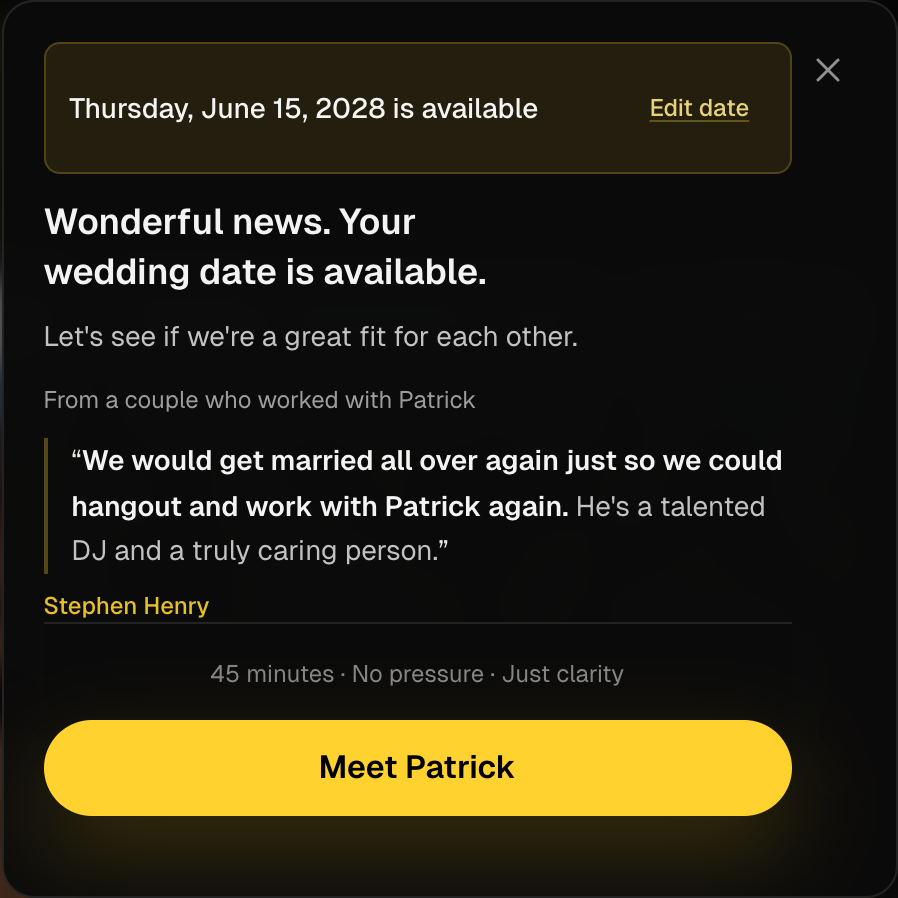
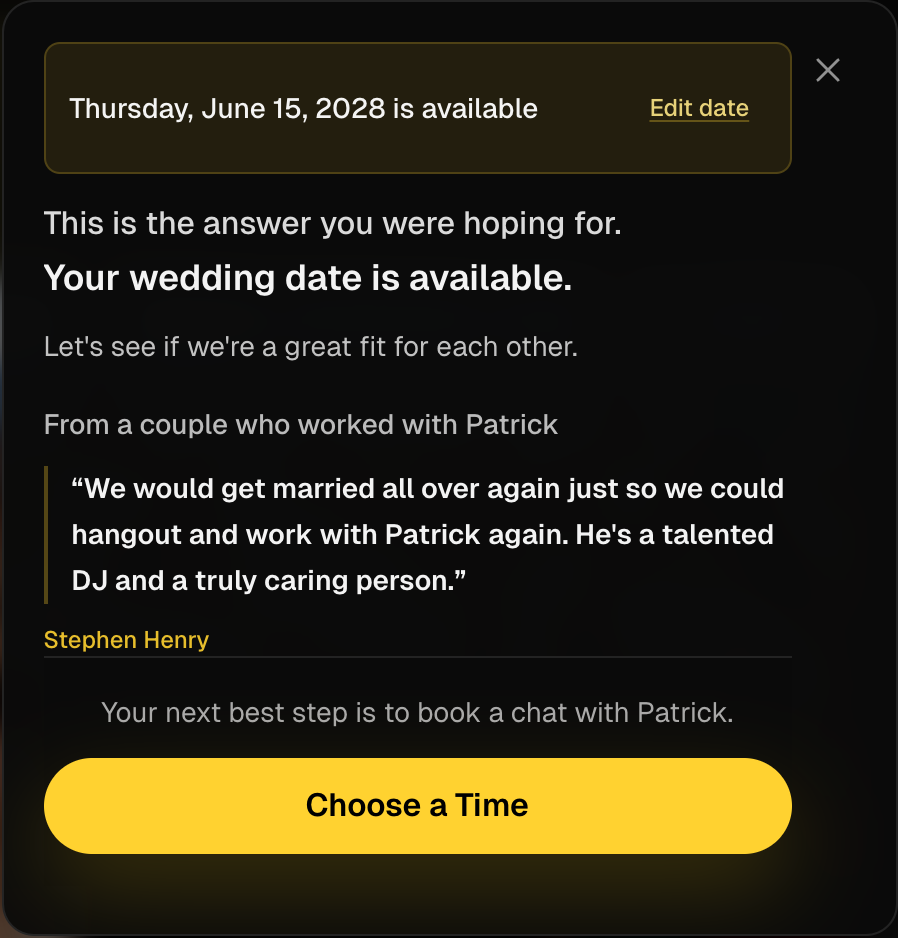
chore: commit pending changes

diff --git a/src/components/post-availability-success.tsx b/src/components/post-availability-success.tsx
@@ -4,15 +4,16 @@ import { useEffect, useLayoutEffect, useRef } from "react";
 import { motion, useReducedMotion } from "framer-motion";
 import {
   POST_AVAILABILITY_COMPACT_CTA_LABEL,
+  POST_AVAILABILITY_CTA_SUPPORT,
   POST_AVAILABILITY_EDIT_DATE_LABEL,
   POST_AVAILABILITY_FULL_PLANNING_SESSION,
   POST_AVAILABILITY_INQUIRY_FALLBACK_LABEL,
   POST_AVAILABILITY_PRIMARY_CTA_LABEL,
   POST_AVAILABILITY_PROOF_CONTEXT,
-  POST_AVAILABILITY_RISK_REDUCER,
   POST_AVAILABILITY_SR_STATUS,
   POST_AVAILABILITY_SUCCESS_BRIDGE,
-  POST_AVAILABILITY_SUCCESS_HEADLINE,
+  POST_AVAILABILITY_SUCCESS_HEADLINE_CONFIRMATION,
+  POST_AVAILABILITY_SUCCESS_HEADLINE_LEAD,
   postAvailabilityConfirmedDateLabel,
 } from "@/config/post-availability-copy";
 import {
@@ -39,12 +40,6 @@ type Props = {
   onEditDate?: () => void;
   className?: string;
 };
-
-function splitReviewQuoteAtFirstSentence(quote: string): { lead: string; rest: string } {
-  const idx = quote.indexOf(". ");
-  if (idx === -1) return { lead: quote, rest: "" };
-  return { lead: quote.slice(0, idx + 1), rest: quote.slice(idx + 2) };
-}
 
 function isElementInitiallyVisible(element: HTMLElement): boolean {
   const rect = element.getBoundingClientRect();
@@ -93,7 +88,6 @@ export function PostAvailabilitySuccess({
   const proof = getReviewById(proofId);
   const calendlyUrl = buildPostAvailabilityCalendlyUrl({ weddingDate, surface });
   const proofQuote = proof?.quote ?? "";
-  const quoteParts = proofQuote ? splitReviewQuoteAtFirstSentence(proofQuote) : null;
 
   useLayoutEffect(() => {
     headingRef.current?.focus({ preventScroll: true });
@@ -171,15 +165,25 @@ export function PostAvailabilitySuccess({
       ? "flex items-center justify-between gap-3 rounded-lg border border-amber-300/20 bg-amber-300/10 px-3 py-2.5"
       : "flex items-center justify-between gap-3 rounded-xl border border-amber-300/25 bg-amber-300/10 px-4 py-3";
 
-  const headlineClass =
+  const headlineLeadClass =
     variant === "compact"
-      ? "text-lg font-semibold leading-snug text-balance text-white/95"
-      : "text-xl font-semibold leading-snug text-balance text-white/95 sm:text-2xl";
+      ? "block text-base font-medium leading-snug text-white/85"
+      : "block text-lg font-medium leading-snug text-white/85 sm:text-xl";
+
+  const headlineConfirmationClass =
+    variant === "compact"
+      ? "mt-1 block text-lg font-semibold leading-snug text-balance text-white/95"
+      : "mt-1 block text-xl font-semibold leading-snug text-balance text-white/95 sm:text-2xl";
 
   const bridgeClass =
     variant === "compact"
       ? "text-sm leading-relaxed text-white/75"
       : "text-sm leading-relaxed text-white/75 sm:text-base";
+
+  const proofContextClass =
+    variant === "compact"
+      ? "text-sm font-medium leading-relaxed text-white/72"
+      : "text-sm font-medium leading-relaxed text-white/75 sm:text-base";
 
   const footerClass =
     variant === "compact"
@@ -207,7 +211,7 @@ export function PostAvailabilitySuccess({
             : "flex flex-col"
         }
       >
-        <div className={variant === "compact" ? "space-y-3" : "space-y-4 sm:space-y-5"}>
+        <div className={variant === "compact" ? "space-y-3.5" : "space-y-4 sm:space-y-5"}>
           <div className={confirmedBarClass}>
             <p className="min-w-0 text-sm font-medium text-white/95">
               {postAvailabilityConfirmedDateLabel(formattedDate)}
@@ -224,14 +228,17 @@ export function PostAvailabilitySuccess({
             ) : null}
           </div>
 
-          <header className={variant === "compact" ? "space-y-2" : "space-y-3"}>
+          <header className={variant === "compact" ? "space-y-2.5" : "space-y-3"}>
             <h3
               ref={headingRef}
               id={`post-availability-success-heading-${variant}`}
               tabIndex={-1}
-              className={`${headlineClass} outline-none`}
+              className="outline-none"
             >
-              {POST_AVAILABILITY_SUCCESS_HEADLINE}
+              <span className={headlineLeadClass}>{POST_AVAILABILITY_SUCCESS_HEADLINE_LEAD}</span>
+              <span className={headlineConfirmationClass}>
+                {POST_AVAILABILITY_SUCCESS_HEADLINE_CONFIRMATION}
+              </span>
             </h3>
             <p className={bridgeClass}>{POST_AVAILABILITY_SUCCESS_BRIDGE}</p>
             {variant === "full" ? (
@@ -240,38 +247,16 @@ export function PostAvailabilitySuccess({
           </header>
 
           {proof && proofQuote ? (
-            <figure className={variant === "compact" ? "space-y-2" : "space-y-3"}>
-              <p
-                className={
-                  variant === "compact"
-                    ? "text-xs leading-relaxed text-white/60"
-                    : "text-sm leading-relaxed text-white/65"
-                }
-              >
-                {POST_AVAILABILITY_PROOF_CONTEXT}
-              </p>
+            <figure className={variant === "compact" ? "space-y-2.5 pt-0.5" : "space-y-3 pt-1"}>
+              <p className={proofContextClass}>{POST_AVAILABILITY_PROOF_CONTEXT}</p>
               <blockquote
                 className={
                   variant === "compact"
-                    ? "border-l-2 border-amber-300/30 pl-3 text-sm leading-relaxed text-white/90"
-                    : "border-l-2 border-amber-300/35 pl-4 text-base leading-relaxed text-white/90 sm:text-[1.05rem]"
+                    ? "border-l-2 border-amber-300/30 pl-3 text-sm font-semibold leading-relaxed text-white/95"
+                    : "border-l-2 border-amber-300/35 pl-4 text-base font-semibold leading-relaxed text-white/95 sm:text-[1.05rem]"
                 }
               >
-                {quoteParts ? (
-                  <>
-                    &ldquo;
-                    <span className="font-semibold text-white/95">{quoteParts.lead}</span>
-                    {quoteParts.rest ? (
-                      <>
-                        {" "}
-                        <span className="text-white/75">{quoteParts.rest}</span>
-                      </>
-                    ) : null}
-                    &rdquo;
-                  </>
-                ) : (
-                  <>&ldquo;{proofQuote}&rdquo;</>
-                )}
+                &ldquo;{proofQuote}&rdquo;
               </blockquote>
               <figcaption
                 className={
@@ -280,7 +265,10 @@ export function PostAvailabilitySuccess({
                     : "text-sm font-medium text-amber-300/90"
                 }
               >
-                {proof.attribution}
+                <span className="block">{proof.attribution}</span>
+                {proof.venue ? (
+                  <span className="mt-0.5 block text-white/65">{proof.venue}</span>
+                ) : null}
               </figcaption>
             </figure>
           ) : null}
@@ -291,11 +279,11 @@ export function PostAvailabilitySuccess({
         <p
           className={
             variant === "compact"
-              ? "text-center text-xs leading-relaxed text-white/50"
-              : "text-center text-sm leading-relaxed text-white/50"
+              ? "text-center text-sm leading-relaxed text-white/65"
+              : "text-center text-sm leading-relaxed text-white/65 sm:text-[0.9375rem]"
           }
         >
-          {POST_AVAILABILITY_RISK_REDUCER}
+          {POST_AVAILABILITY_CTA_SUPPORT}
         </p>
         <div className={variant === "compact" ? "mt-3 flex w-full justify-center" : "mt-4 flex w-full justify-center"}>
           <a

diff --git a/tests/post-availability-conversion.test.ts b/tests/post-availability-conversion.test.ts
@@ -4,13 +4,14 @@ import { describe, expect, it } from "vitest";
 import {
   POST_AVAILABILITY_COMPACT_CTA_LABEL,
   POST_AVAILABILITY_COPY_VARIANT,
+  POST_AVAILABILITY_CTA_SUPPORT,
   POST_AVAILABILITY_EDIT_DATE_LABEL,
   POST_AVAILABILITY_FULL_PLANNING_SESSION,
   POST_AVAILABILITY_PRIMARY_CTA_LABEL,
   POST_AVAILABILITY_PROOF_CONTEXT,
-  POST_AVAILABILITY_RISK_REDUCER,
   POST_AVAILABILITY_SUCCESS_BRIDGE,
-  POST_AVAILABILITY_SUCCESS_HEADLINE,
+  POST_AVAILABILITY_SUCCESS_HEADLINE_CONFIRMATION,
+  POST_AVAILABILITY_SUCCESS_HEADLINE_LEAD,
   postAvailabilityConfirmedDateLabel,
 } from "@/config/post-availability-copy";
 import {
@@ -71,22 +72,26 @@ describe("review SSOT", () => {
   });
 });
 
-describe("post-availability copy authority (V3)", () => {
+describe("post-availability copy authority (V3.1)", () => {
   const copySurfaces = [
-    POST_AVAILABILITY_SUCCESS_HEADLINE,
+    POST_AVAILABILITY_SUCCESS_HEADLINE_LEAD,
+    POST_AVAILABILITY_SUCCESS_HEADLINE_CONFIRMATION,
     POST_AVAILABILITY_SUCCESS_BRIDGE,
     POST_AVAILABILITY_FULL_PLANNING_SESSION,
     POST_AVAILABILITY_PROOF_CONTEXT,
     POST_AVAILABILITY_COMPACT_CTA_LABEL,
     POST_AVAILABILITY_PRIMARY_CTA_LABEL,
-    POST_AVAILABILITY_RISK_REDUCER,
+    POST_AVAILABILITY_CTA_SUPPORT,
     POST_AVAILABILITY_EDIT_DATE_LABEL,
     postAvailabilityConfirmedDateLabel("June 15, 2028"),
   ];
 
-  it("uses the Patrick-authorized V3 headline and bridge", () => {
-    expect(POST_AVAILABILITY_SUCCESS_HEADLINE).toBe(
-      "Wonderful news. Your wedding date is available.",
+  it("uses the V3.1 two-line headline and bridge", () => {
+    expect(POST_AVAILABILITY_SUCCESS_HEADLINE_LEAD).toBe(
+      "This is the answer you were hoping for.",
+    );
+    expect(POST_AVAILABILITY_SUCCESS_HEADLINE_CONFIRMATION).toBe(
+      "Your wedding date is available.",
     );
     expect(POST_AVAILABILITY_SUCCESS_BRIDGE).toBe(
       "Let's see if we're a great fit for each other.",
@@ -94,16 +99,19 @@ describe("post-availability copy authority (V3)", () => {
     expect(POST_AVAILABILITY_COPY_VARIANT).toBe("human_connection_v3");
   });
 
-  it("does not use V2 Patrick-forward headline or compact Sound Check bridge", () => {
+  it("does not use superseded V3 headline or risk reducer", () => {
     const copyFile = readSource("src/config/post-availability-copy.ts");
+    expect(copyFile).not.toMatch(/Wonderful news/);
+    expect(copyFile).not.toMatch(/45 minutes · No pressure · Just clarity/);
+    expect(copyFile).not.toMatch(/Meet Patrick/);
     expect(copyFile).not.toMatch(/Patrick is available/);
-    expect(copyFile).not.toMatch(/complimentary Sound Check is the calm next step/i);
-    expect(POST_AVAILABILITY_SUCCESS_HEADLINE).not.toMatch(/Patrick is available/);
   });
 
-  it("uses compact CTA Meet Patrick and governed risk reducer", () => {
-    expect(POST_AVAILABILITY_COMPACT_CTA_LABEL).toBe("Meet Patrick");
-    expect(POST_AVAILABILITY_RISK_REDUCER).toBe("45 minutes · No pressure · Just clarity");
+  it("uses compact CTA Choose a Time and CTA support copy", () => {
+    expect(POST_AVAILABILITY_COMPACT_CTA_LABEL).toBe("Choose a Time");
+    expect(POST_AVAILABILITY_CTA_SUPPORT).toBe(
+      "Your next best step is to book a chat with Patrick.",
+    );
   });
 
   it("contains no emoji characters", () => {
@@ -147,9 +155,11 @@ describe("shared post-availability success ownership (V3)", () => {
 
   it("implements sticky footer, Stephen proof, and accessibility structure", () => {
     const success = readSource("src/components/post-availability-success.tsx");
-    expect(success).toMatch(/POST_AVAILABILITY_SUCCESS_HEADLINE/);
+    expect(success).toMatch(/POST_AVAILABILITY_SUCCESS_HEADLINE_LEAD/);
+    expect(success).toMatch(/POST_AVAILABILITY_SUCCESS_HEADLINE_CONFIRMATION/);
     expect(success).toMatch(/POST_AVAILABILITY_PROOF_CONTEXT/);
     expect(success).toMatch(/POST_AVAILABILITY_COMPACT_CTA_LABEL/);
+    expect(success).toMatch(/POST_AVAILABILITY_CTA_SUPPORT/);
     expect(success).toMatch(/<figure/);
     expect(success).toMatch(/<blockquote/);
     expect(success).toMatch(/<figcaption/);
@@ -157,7 +167,8 @@ describe("shared post-availability success ownership (V3)", () => {
     expect(success).toMatch(/headingRef/);
     expect(success).toMatch(/tabIndex=\{-1\}/);
     expect(success).toMatch(/shrink-0 border-t/);
-    expect(success).not.toMatch(/Patrick is available/);
+    expect(success).not.toMatch(/splitReviewQuoteAtFirstSentence/);
+    expect(success).not.toMatch(/Wonderful news/);
     expect(success).not.toMatch(/Sea to Sky Gondola/i);
     expect(success).not.toMatch(/matthew-bundala|lauren-steeles/);
   });
@@ -166,6 +177,13 @@ describe("shared post-availability success ownership (V3)", () => {
     const header = readSource("src/components/header-check-availability.tsx");
     expect(header).toMatch(/overflow-hidden/);
     expect(header).toMatch(/flex-col/);
+  });
+
+  it("renders venue from review SSOT only when governed metadata exists", () => {
+    const success = readSource("src/components/post-availability-success.tsx");
+    expect(success).toMatch(/proof\.venue/);
+    const stephen = getReviewById("stephen-henry");
+    expect(stephen?.venue).toBeUndefined();
   });
 });
 

diff --git a/src/config/post-availability-copy.ts b/src/config/post-availability-copy.ts
@@ -1,7 +1,7 @@
 /**
  * Post-availability emotional conversion copy (visitor-facing SSOT).
  *
- * V3 — Human Connection (Patrick-authorized 2026-07-30).
+ * V3.1 — Human Connection copy refinement (Patrick executive review 2026-07-30).
  * Authority: docs/branding/HSDJ_AVAILABILITY_SUCCESS_V3_COPY_CONTRACT.md
  */
 
@@ -10,9 +10,10 @@ export const POST_AVAILABILITY_COPY_VARIANT = "human_connection_v3" as const;
 export const POST_AVAILABILITY_PRIMARY_CTA_LABEL =
   "Reserve My Complimentary Wedding Planning Session" as const;
 
-export const POST_AVAILABILITY_COMPACT_CTA_LABEL = "Meet Patrick" as const;
+export const POST_AVAILABILITY_COMPACT_CTA_LABEL = "Choose a Time" as const;
 
-export const POST_AVAILABILITY_RISK_REDUCER = "45 minutes · No pressure · Just clarity" as const;
+export const POST_AVAILABILITY_CTA_SUPPORT =
+  "Your next best step is to book a chat with Patrick." as const;
 
 export const POST_AVAILABILITY_INQUIRY_FALLBACK_LABEL = "Prefer email first?" as const;
 
@@ -20,9 +21,13 @@ export const POST_AVAILABILITY_EDIT_DATE_LABEL = "Edit date" as const;
 
 export const POST_AVAILABILITY_PROOF_CONTEXT = "From a couple who worked with Patrick" as const;
 
-/** Shared headline (compact + full). */
-export const POST_AVAILABILITY_SUCCESS_HEADLINE =
-  "Wonderful news. Your wedding date is available." as const;
+/** Shared headline lead line (compact + full). */
+export const POST_AVAILABILITY_SUCCESS_HEADLINE_LEAD =
+  "This is the answer you were hoping for." as const;
+
+/** Shared headline confirmation line (compact + full). */
+export const POST_AVAILABILITY_SUCCESS_HEADLINE_CONFIRMATION =
+  "Your wedding date is available." as const;
 
 /** Shared mutual-fit bridge (compact + full). */
 export const POST_AVAILABILITY_SUCCESS_BRIDGE =

diff --git a/src/config/reviews.ts b/src/config/reviews.ts
@@ -28,6 +28,8 @@ export type CanonicalReview = {
   compactExcerpt: string;
   fullExcerpt: string;
   attribution: string;
+  /** Governed venue label when authorized in review SSOT (e.g. Sea to Sky Gondola). */
+  venue?: string;
   evidenceStatus: "published_site";
 };
 

diff --git a/docs/handoff/HSDJ_WEB_AVAILABILITY_SUCCESS_V3_IMPLEMENTATION.md b/docs/handoff/HSDJ_WEB_AVAILABILITY_SUCCESS_V3_IMPLEMENTATION.md
@@ -2,8 +2,29 @@
 
 **Date:** 2026-07-30  
 **Verdict:** `PASS_HSDJ_AVAILABILITY_SUCCESS_V3_IMPLEMENTED_AND_LOCALLY_CERTIFIED`  
+**V3.1 status:** `PASS_HSDJ_AVAILABILITY_SUCCESS_V3_1_COPY_AND_UX_REFINEMENT_COMPLETE` (2026-07-30)  
 **Workspace:** `~/Desktop/howesounddj`  
 **Deployment:** Not performed in this tranche
+
+---
+
+## V3.1 — Copy Clarity Refinement (Patrick Executive Review)
+
+**Reason:** Copy clarity refinement after Patrick executive review. **No architecture changes.**
+
+| Change | Before (V3) | After (V3.1) |
+|--------|-------------|--------------|
+| Headline | Wonderful news. Your wedding date is available. | Two lines: *This is the answer you were hoping for.* / *Your wedding date is available.* |
+| CTA support | 45 minutes · No pressure · Just clarity | Your next best step is to book a chat with Patrick. |
+| Compact CTA | Meet Patrick | Choose a Time |
+| Testimonial | Split font weight mid-quote | Single `font-semibold` quotation |
+| Context label | `text-xs text-white/60` | `text-sm font-medium text-white/72` |
+| Stephen venue | N/A | Renders `proof.venue` from SSOT when present; Stephen has no governed venue → name only |
+| Spacing | `space-y-3` body | `space-y-3.5` + `space-y-2.5` header/figure rhythm |
+
+**Unchanged:** state replacement, sticky footer, Stephen proof ID, accessibility, analytics topology, Calendly destination, geometry architecture.
+
+**V3.1 validation:** typecheck, lint, 69 tests, build, geometry proof re-run (see §15).
 
 ---
 
